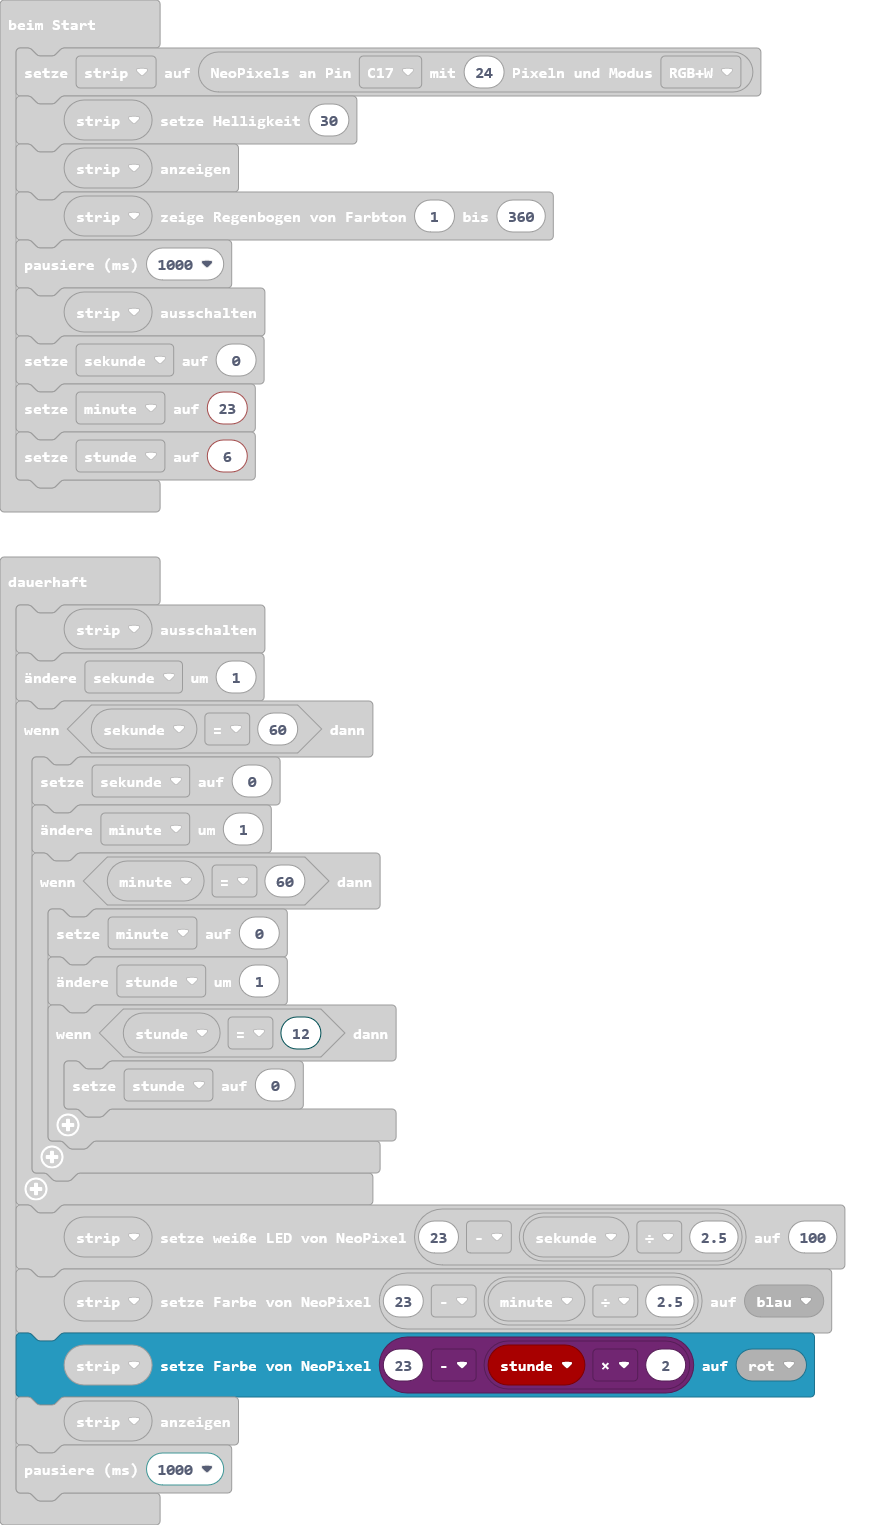
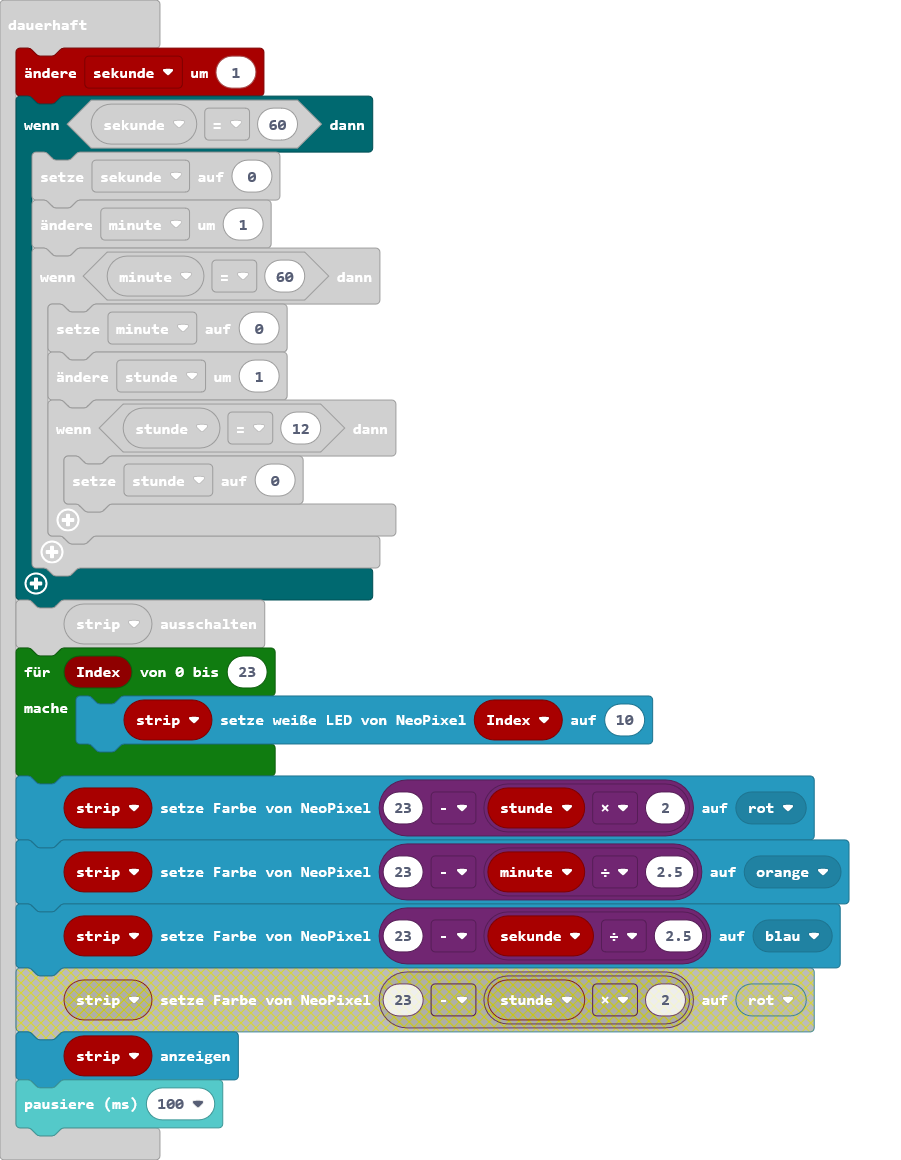
Aktualisiere main.blocks, main.ts

diff --git a/main.ts b/main.ts
@@ -8,7 +8,6 @@ let sekunde = 0
 let minute = 23
 let stunde = 6
 basic.forever(function () {
-    strip.clear()
     sekunde += 1
     if (sekunde == 60) {
         sekunde = 0
@@ -21,9 +20,13 @@ basic.forever(function () {
             }
         }
     }
-    strip.setPixelWhiteLED(23 - sekunde / 2.5, 100)
-    strip.setPixelColor(23 - minute / 2.5, neopixel.colors(NeoPixelColors.Blue))
+    strip.clear()
+    for (let Index = 0; Index <= 23; Index++) {
+        strip.setPixelWhiteLED(Index, 10)
+    }
     strip.setPixelColor(23 - stunde * 2, neopixel.colors(NeoPixelColors.Red))
+    strip.setPixelColor(23 - minute / 2.5, neopixel.colors(NeoPixelColors.Orange))
+    strip.setPixelColor(23 - sekunde / 2.5, neopixel.colors(NeoPixelColors.Blue))
     strip.show()
-    basic.pause(1000)
+    basic.pause(100)
 })
